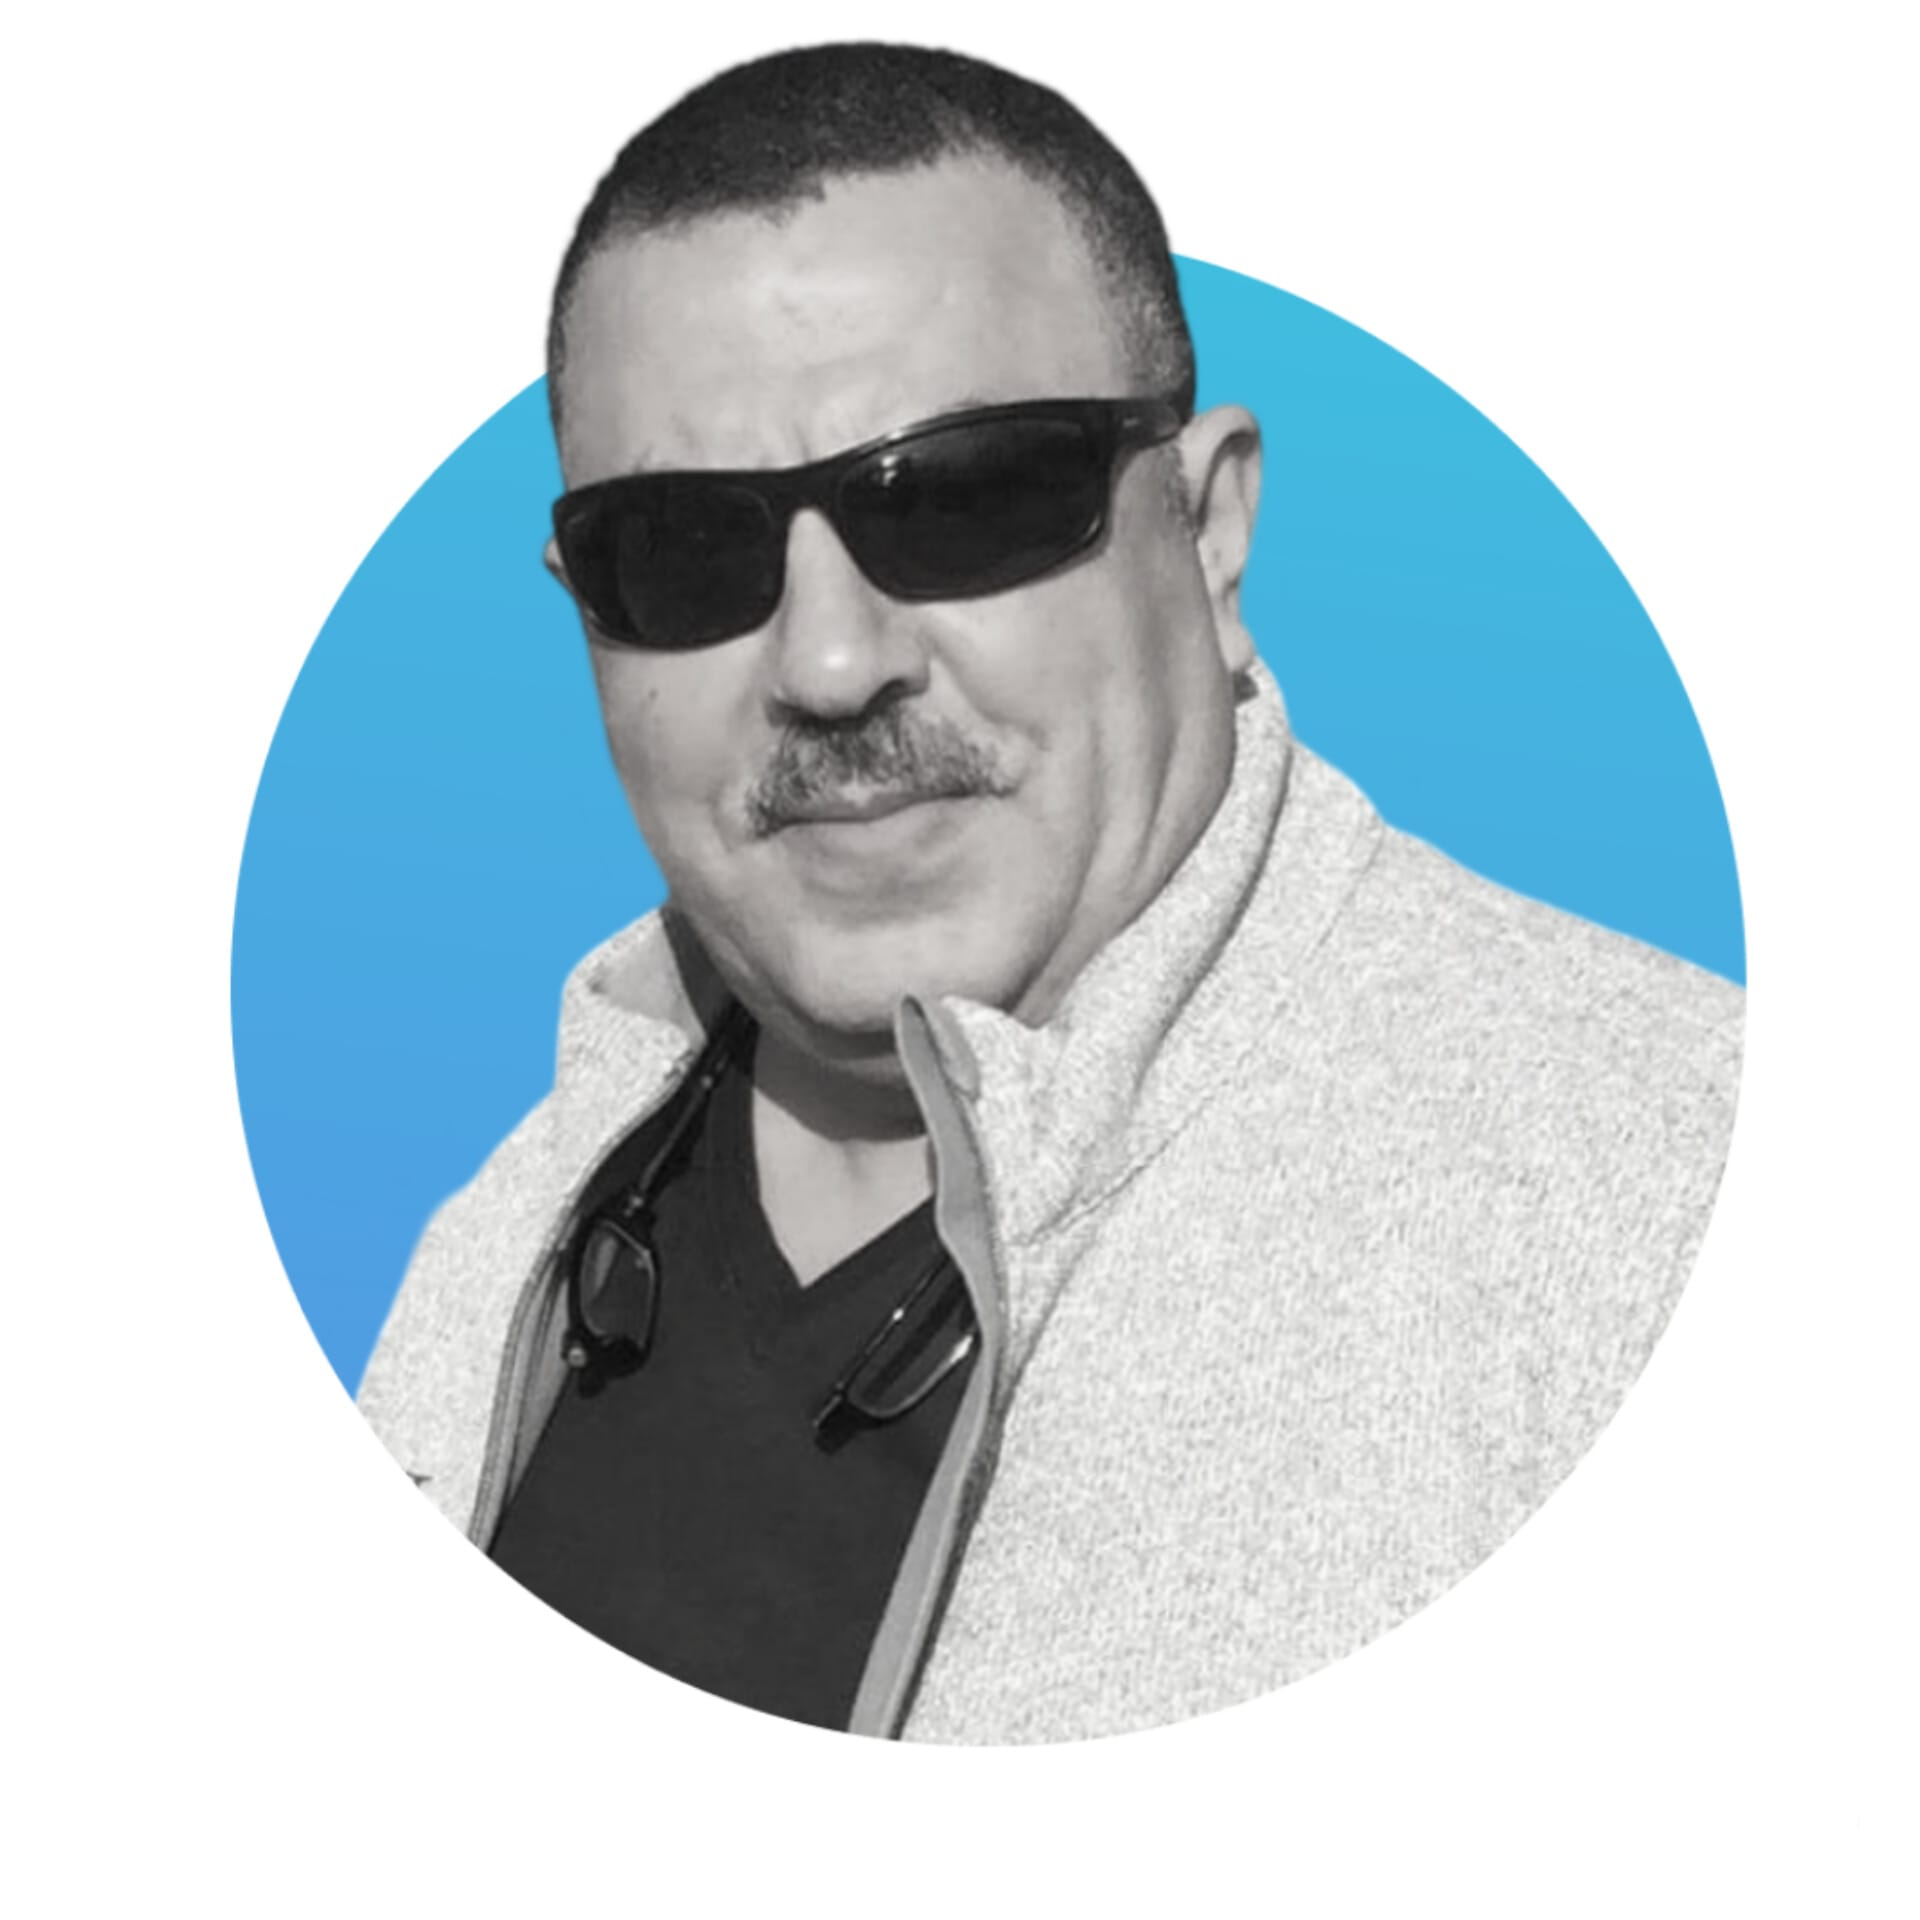
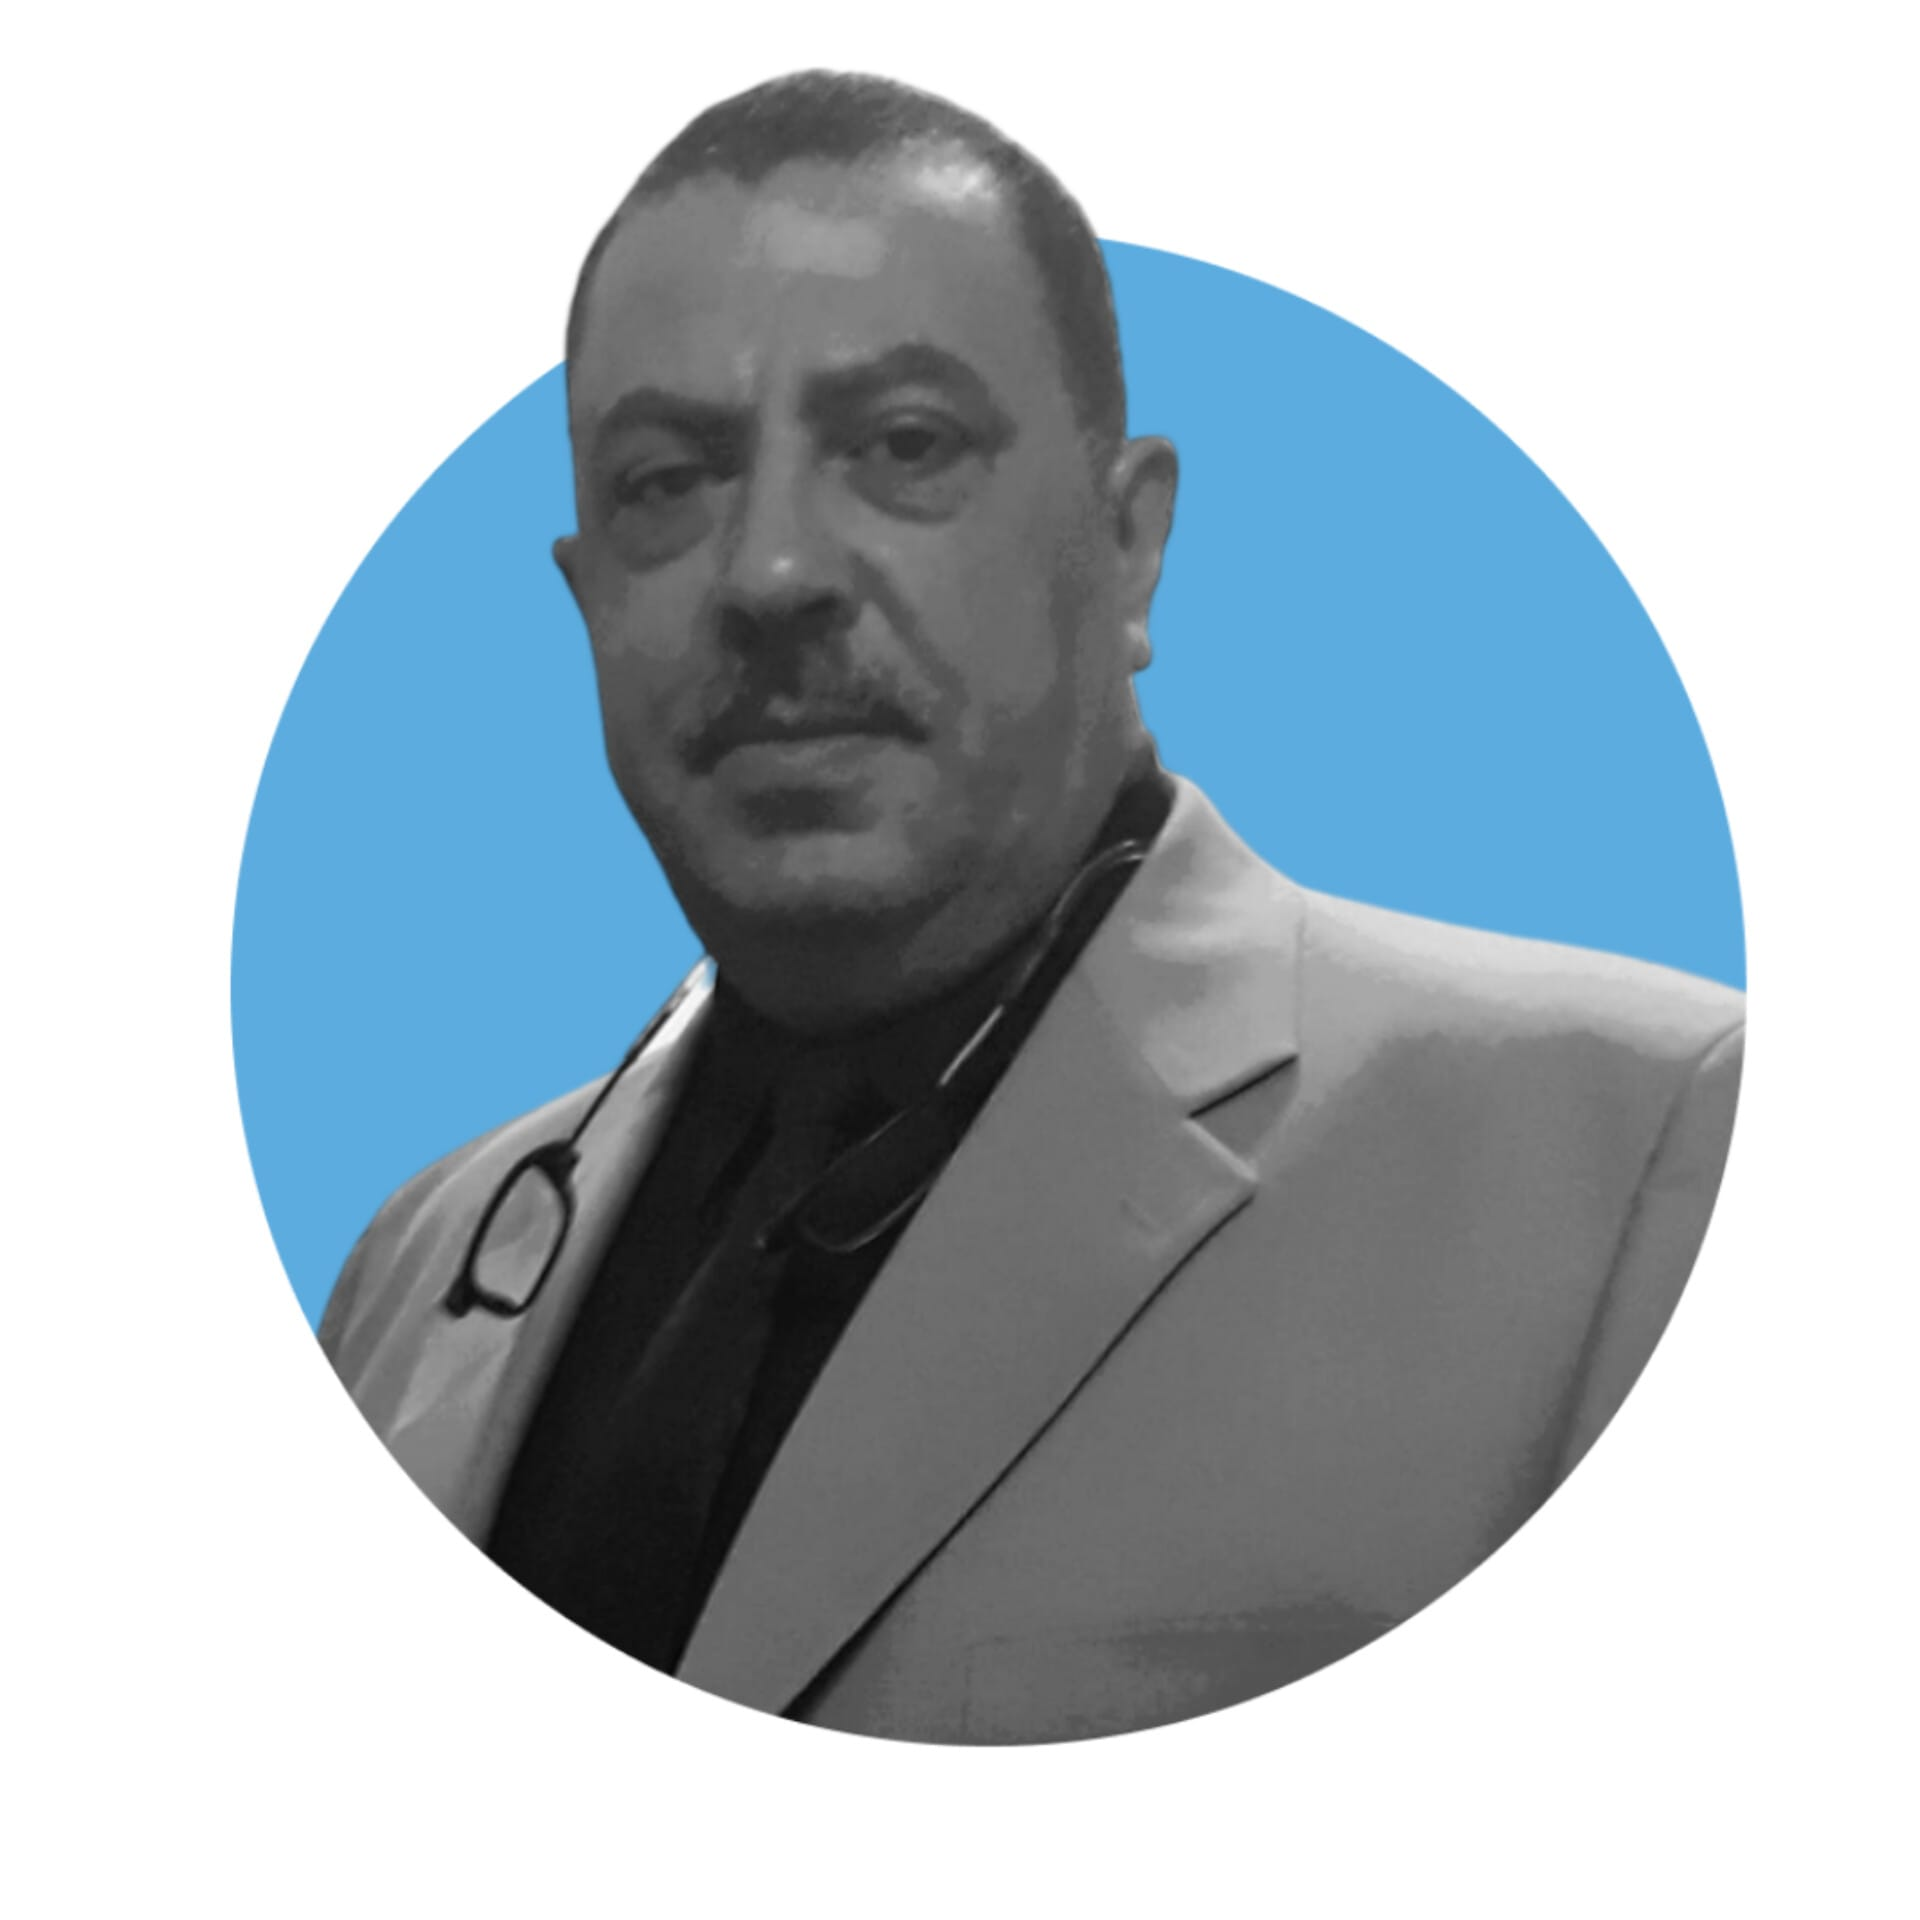
change the text and the pic for yassir.

diff --git a/index.html b/index.html
@@ -40,33 +40,33 @@
                   <div class="row justify-content-center align-items-center">
                       <div class="col-xl-11 d-flex align-items-center justify-content-between">
                           <a href="index.html" class="logo"><img src="assets/img/logo.png" alt="" class="img-fluid"></a>
-
                           <!-- English Navbar -->
                           <nav id="navbar-en" class="navbar">
-                              <ul>
-                                  <li><a class="nav-link scrollto active" href="index.html#hero">Home</a></li>
-                                  <li><a class="nav-link scrollto" href="about.html">About</a></li>
-                                  <li><a class="nav-link scrollto" href="services.html">Services</a></li>
-                                  <li><a class="nav-link scrollto" href="gallery.html">Gallery</a></li>
-                                  <li><a class="nav-link scrollto" href="upcomingEvents.html">Upcoming Events</a></li>
-                                  <li><a class="nav-link scrollto" href="blog.html">Blog</a></li>
-                                  <li><a class="nav-link scrollto" href="contact.html">Contact</a></li>
-                              </ul>
+                            <ul>
+                              <li><a class="nav-link scrollto active" href="index.html#hero">Home</a></li>
+                              <li><a class="nav-link scrollto" href="about.html">About</a></li>
+                              <li><a class="nav-link scrollto" href="services.html">Services</a></li>
+                              <li><a class="nav-link scrollto" href="gallery.html">Gallery</a></li>
+                              <li><a class="nav-link scrollto" href="upcomingEvents.html">Upcoming Events</a></li>
+                              <li><a class="nav-link scrollto" href="blog.html">Blog</a></li>
+                              <li><a class="nav-link scrollto" href="contact.html">Contact</a></li>
+                            </ul>
                           </nav><!-- .navbar -->
 
                           <!-- Arabic Navbar -->
                           <nav id="navbar-ar" class="navbar" style="display: none;">
-                              <ul>
-                                  <li><a class="nav-link scrollto active" href="index.html#hero">الصفحة الرئيسية</a></li>
-                                  <li><a class="nav-link scrollto" href="about.html">من نحن</a></li>
-                                  <li><a class="nav-link scrollto" href="services.html">الخدمات</a></li>
-                                  <li><a class="nav-link scrollto" href="gallery.html">المعرض</a></li>
-                                  <li><a class="nav-link scrollto" href="upcomingEvents.html">الفعاليات المقبلة</a></li>
-                                  <li><a class="nav-link scrollto" href="blog.html">المدونة</a></li>
-                                  <li><a class="nav-link scrollto" href="contact.html">تواصل معنا</a></li>
-                              </ul>
+                            <ul>
+                              <li><a class="nav-link scrollto active" href="index.html#hero">الصفحة الرئيسية</a></li>
+                              <li><a class="nav-link scrollto" href="about.html">من نحن</a></li>
+                              <li><a class="nav-link scrollto" href="services.html">الخدمات</a></li>
+                              <li><a class="nav-link scrollto" href="gallery.html">المعرض</a></li>
+                              <li><a class="nav-link scrollto" href="upcomingEvents.html">الفعاليات المقبلة</a></li>
+                              <li><a class="nav-link scrollto" href="blog.html">المدونة</a></li>
+                              <li><a class="nav-link scrollto" href="contact.html">تواصل معنا</a></li>
+                            </ul>
                           </nav><!-- .navbar -->
 
+      
                           <div class="language-toggle-container">
                               <div class="toggle-button-cover">
                                   <div class="button-cover">
@@ -78,7 +78,7 @@
                                   </div>
                               </div>
                           </div>
-
+      
                           <i class="bi bi-list mobile-nav-toggle"></i>
                       </div>
                   </div>
@@ -139,7 +139,7 @@
                           <a href="https://fun-contact-form.vercel.app/">
                             <div class="d-flex flex-column align-items-center">
                               <i class="bi bi-envelope"></i>
-                              <h6>Contact Us</h6>
+                              <h6>تواصل معنا</h6>
                             </div>
                           </a>
                         </div>
@@ -148,7 +148,7 @@
                           <a href="https://fun-volunteer-form-kwda.vercel.app/">
                             <div class="d-flex flex-column align-items-center">
                               <i class="bi bi-person-fill-add"></i>
-                              <h6>Volunteer</h6>
+                              <h6>التطوع</h6>
                             </div>
                           </a>
                         </div>

diff --git a/assets/css/style.css b/assets/css/style.css
@@ -172,9 +172,9 @@ h6 {
 /*--------------------------------------------------------------
 # Navigation Menu
 --------------------------------------------------------------*/
-/**
-* Desktop Navigation 
-*/
+/* Desktop Navigation */
+
+/* Common Navbar Styles */
 .navbar {
   padding: 0;
 }
@@ -197,8 +197,8 @@ h6 {
   align-items: center;
   justify-content: space-between;
   padding: 10px 0 10px 30px;
-  font-family: "Montserrat", sans-serif;
-  font-size: 17px;
+  font-family: "Montserrat", sans-serif; /* Same font-family */
+  font-size: 15px;
   font-weight: 600;
   color: #fff;
   white-space: nowrap;
@@ -216,7 +216,7 @@ h6 {
 .navbar a:hover,
 .navbar .active,
 .navbar .active:focus,
-.navbar li:hover>a {
+.navbar li:hover > a {
   color: #0785F3;
 }
 
@@ -251,11 +251,11 @@ h6 {
 
 .navbar .dropdown ul a:hover,
 .navbar .dropdown ul .active:hover,
-.navbar .dropdown ul li:hover>a {
+.navbar .dropdown ul li:hover > a {
   color: #0785F3;
 }
 
-.navbar .dropdown:hover>ul {
+.navbar .dropdown:hover > ul {
   opacity: 1;
   top: 100%;
   visibility: visible;
@@ -267,7 +267,7 @@ h6 {
   visibility: hidden;
 }
 
-.navbar .dropdown .dropdown:hover>ul {
+.navbar .dropdown .dropdown:hover > ul {
   opacity: 1;
   top: 0;
   left: 100%;
@@ -279,14 +279,12 @@ h6 {
     left: -90%;
   }
 
-  .navbar .dropdown .dropdown:hover>ul {
+  .navbar .dropdown .dropdown:hover > ul {
     left: -100%;
   }
 }
 
-/**
-* Mobile Navigation 
-*/
+/* Mobile Navigation */
 .mobile-nav-toggle {
   color: #0785F3;
   font-size: 40px;
@@ -311,7 +309,6 @@ h6 {
   .navbar ul {
     display: none;
   }
-
 }
 
 .navbar-mobile {
@@ -354,7 +351,7 @@ h6 {
 
 .navbar-mobile a {
   padding: 10px 20px;
-  font-size: 17px;
+  font-size: 15px;
   color: #fff;
 }
 
@@ -366,7 +363,7 @@ h6 {
 
 .navbar-mobile a:hover,
 .navbar-mobile .active,
-.navbar-mobile li:hover>a {
+.navbar-mobile li:hover > a {
   color: #0785F3;
 }
 
@@ -401,13 +398,27 @@ h6 {
 
 .navbar-mobile .dropdown ul a:hover,
 .navbar-mobile .dropdown ul .active:hover,
-.navbar-mobile .dropdown ul li:hover>a {
+.navbar-mobile .dropdown ul li:hover > a {
   color: #aebfdb;
 }
 
-.navbar-mobile .dropdown>.dropdown-active {
+.navbar-mobile .dropdown > .dropdown-active {
   display: block;
 }
+
+/* Additional styling for Arabic navbar to handle text direction */
+#navbar-ar {
+  direction: rtl;
+  text-align: right;
+}
+
+#navbar-ar a,
+#navbar-ar a:focus {
+  font-family: "Montserrat", sans-serif; /* Ensure same font-family */
+  font-size: 20px; /* Ensure same font-size */
+  font-weight: 700; /* Ensure same font-weight */
+}
+
 
 /*------------------------------------------------
 Toggle Section

diff --git a/services.html b/services.html
@@ -118,7 +118,7 @@
                                     <i class="bi bi-book"></i>
                                     <h6 class="pt-3">Educational and Social Activities Committee:</h6>
                                     <p class="text-center">
-                                        Its role is educational, organizing open discussions about community issues such as atheism and homosexuality, as well as ethical and moral sessions for children, parents, and the family.
+                                        Organizing open discussions about community issues such as atheism and diverse sexual orientations, as well as ethical and moral sessions for children, parents, and families.
                                     </p>
                                 </div>
                             </div>
@@ -178,7 +178,7 @@
                                     <i class="bi bi-book"></i>
                                     <h6 class="pt-3">لجنة الأنشطة التعليمية والاجتماعية:</h6>
                                     <p class="text-center">
-                                        دورها تعليمي، حيث تنظم مناقشات مفتوحة حول قضايا المجتمع مثل الإلحاد والمثلية، بالإضافة إلى جلسات أخلاقية وتربوية للأطفال والآباء والعائلة.
+                                        تنظيم مناقشات مفتوحة حول قضايا المجتمع مثل الإلحاد والتوجهات الجنسية المتنوعة ، فضلا عن الجلسات الأخلاقية والمعنوية للأطفال والآباء والأسر.
                                     </p>
                                 </div>
                             </div>

diff --git a/about.html b/about.html
@@ -146,7 +146,7 @@
                                         <i class="bi bi-graph-up-arrow"></i>
                                         <h6>Community Projects:</h6>
                                         <p>
-                                            We identify and implement essential community projects that meet the unmet needs of Arab and Muslim families, ensuring they have access to vital social services.
+                                            We identify and implement essential community projects that meet the unmet needs of canadian families, ensuring they have access to vital social services.
                                         </p>
                                     </div>
                                 </div>
@@ -360,7 +360,7 @@
                                         <i class="bi bi-graph-up-arrow"></i>
                                         <h6>المشاريع المجتمعية:</h6>
                                         <p>
-                                            نحدد وننفذ المشاريع المجتمعية الأساسية التي تلبي الاحتياجات غير الملباة للأسر العربية والمسلمة، لضمان حصولها على الخدمات الاجتماعية الحيوية.
+                                            نحدد وننفذ المشاريع المجتمعية الأساسية التي تلبي الاحتياجات غير الملباة للأسر الكنديه، لضمان حصولها على الخدمات الاجتماعية الحيوية.
                                         </p>
                                     </div>
                                 </div>
